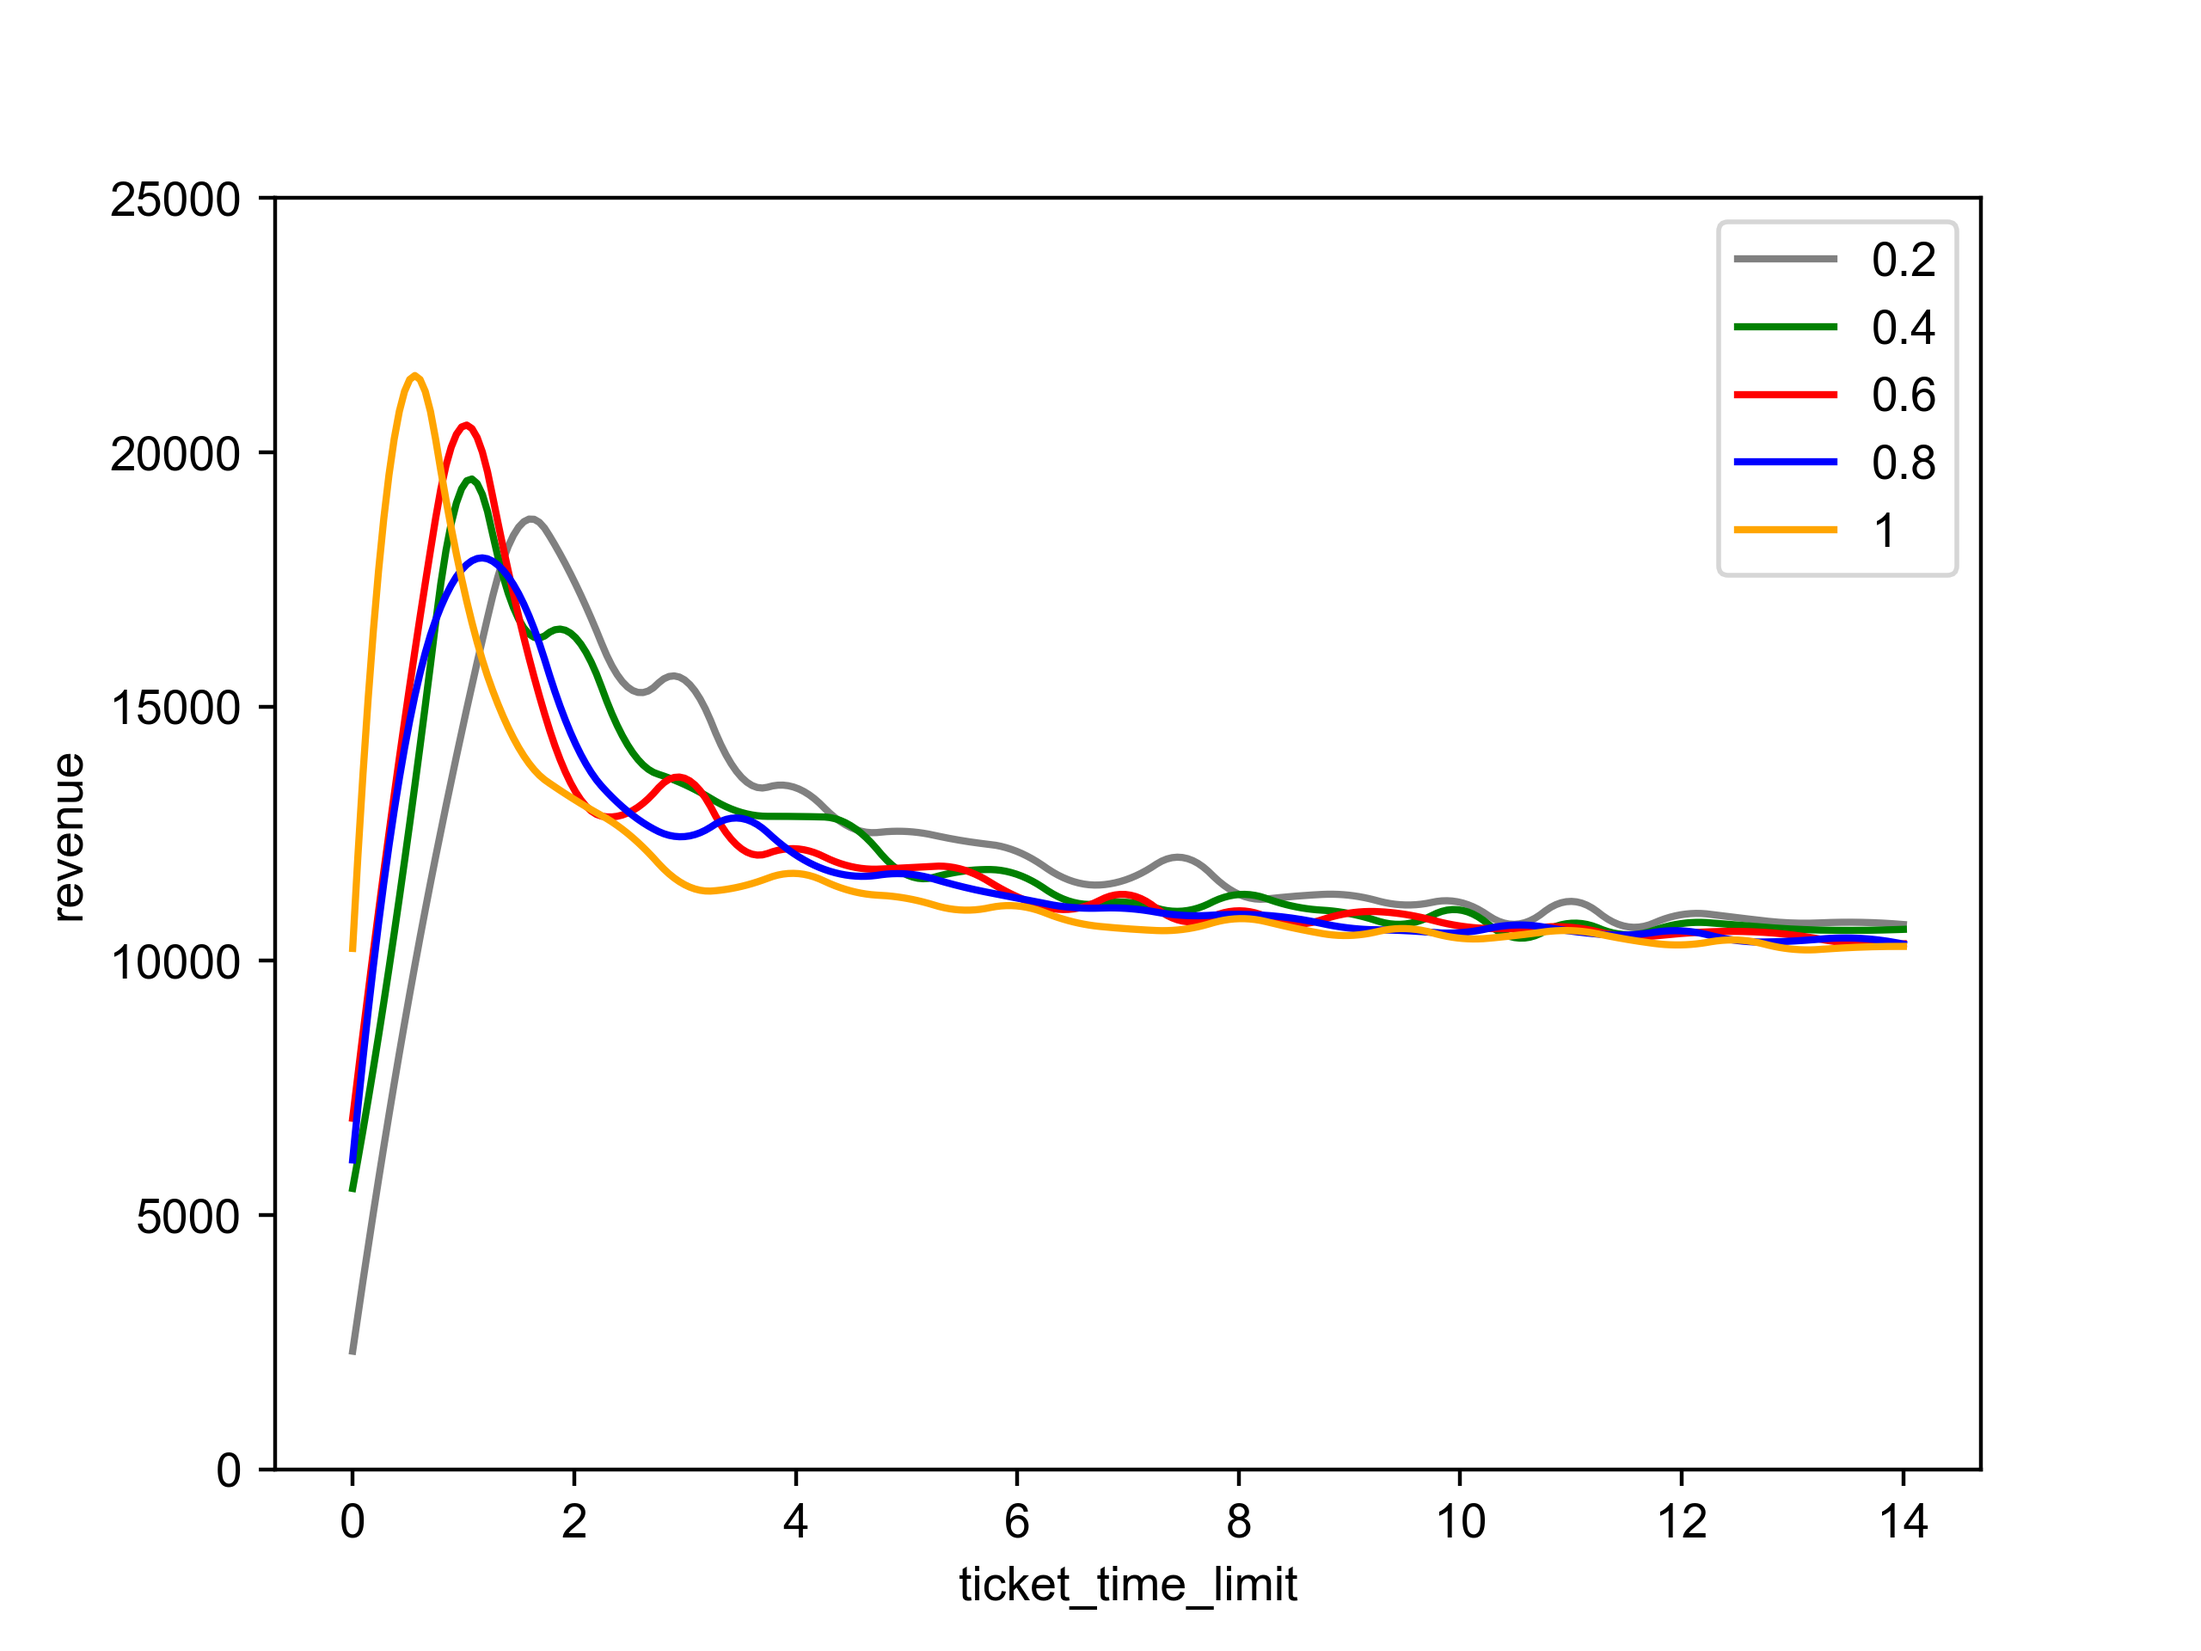
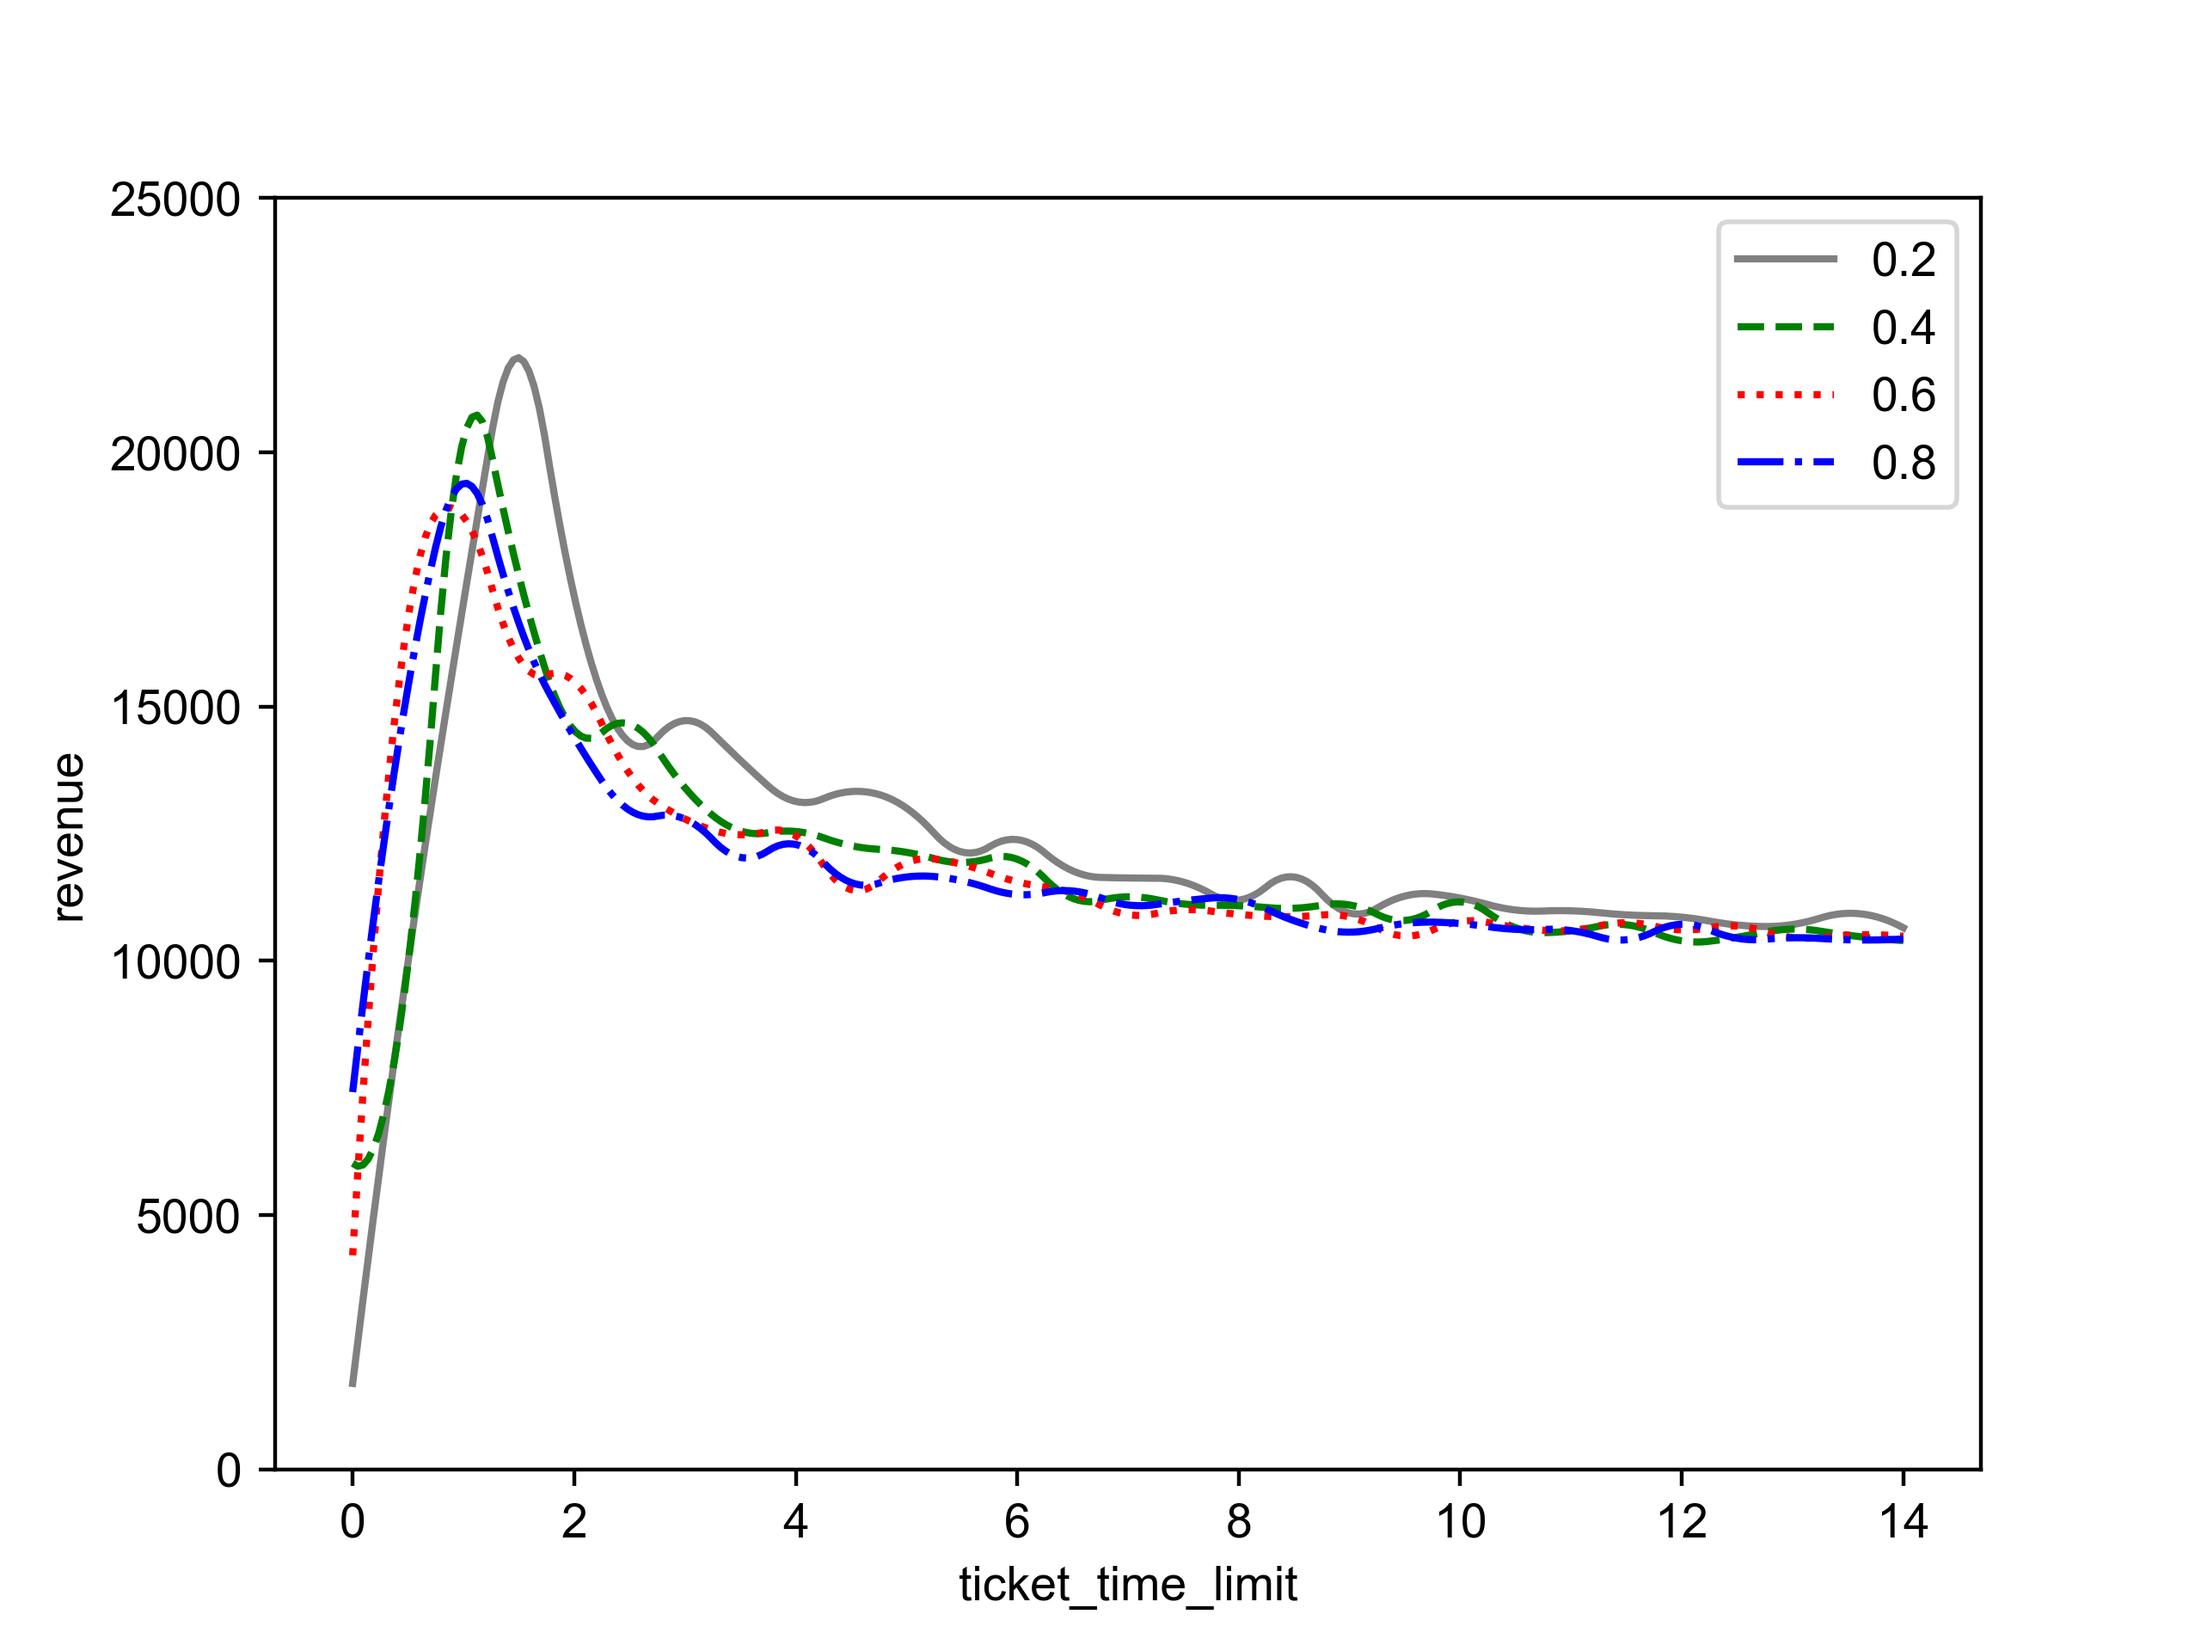
improve plotting graph

Changed region(s): [[0.1562, 0.2188, 0.875, 0.7188], [0.7812, 0.2812, 0.875, 0.375], [0.1562, 0.7812, 0.1875, 0.8438]]

diff --git a/plot.py b/plot.py
@@ -8,8 +8,9 @@ from scipy.interpolate import make_interp_spline
 class AirlineRmPlotting:
     def plot_ttl_revenue(routes):
         matplotlib.rcParams['font.family'] = 'Arial'
-        confirm_prob_range = [0.2, 0.4, 0.6, 0.8, 1]
-        confirm_prob_color = ["grey", "green", "red", "blue", "orange"]
+        confirm_prob_range = [0.2, 0.4, 0.6, 0.8]
+        confirm_prob_color = ["grey", "green", "red", "blue"]
+        confirm_prob_line = ["-", "--", ":", "-."]
         # Simulate with different confirm prob
         plt.figure(dpi=400)
         plt.ylim(0, 25000)
@@ -30,7 +31,7 @@ class AirlineRmPlotting:
             x_smooth = np.linspace(0, 14, 300)
             y_smooth = spl(x_smooth)
             
-            plt.plot(x_smooth, y_smooth, color=confirm_prob_color[index], label=Param.confirm_prob)
+            plt.plot(x_smooth, y_smooth, linestyle=confirm_prob_line[index], color=confirm_prob_color[index], label=Param.confirm_prob)
             plt.xlabel("ticket_time_limit")
             plt.ylabel("revenue")
         plt.legend()

diff --git a/main.py b/main.py
@@ -9,4 +9,4 @@ def main():
     AirlineRmPlotting.plot_ttl_revenue(routes)
 
 if __name__ == "__main__":
-    AirlineRmPlotting.plot_exponential_distribution(4)
+    main()
